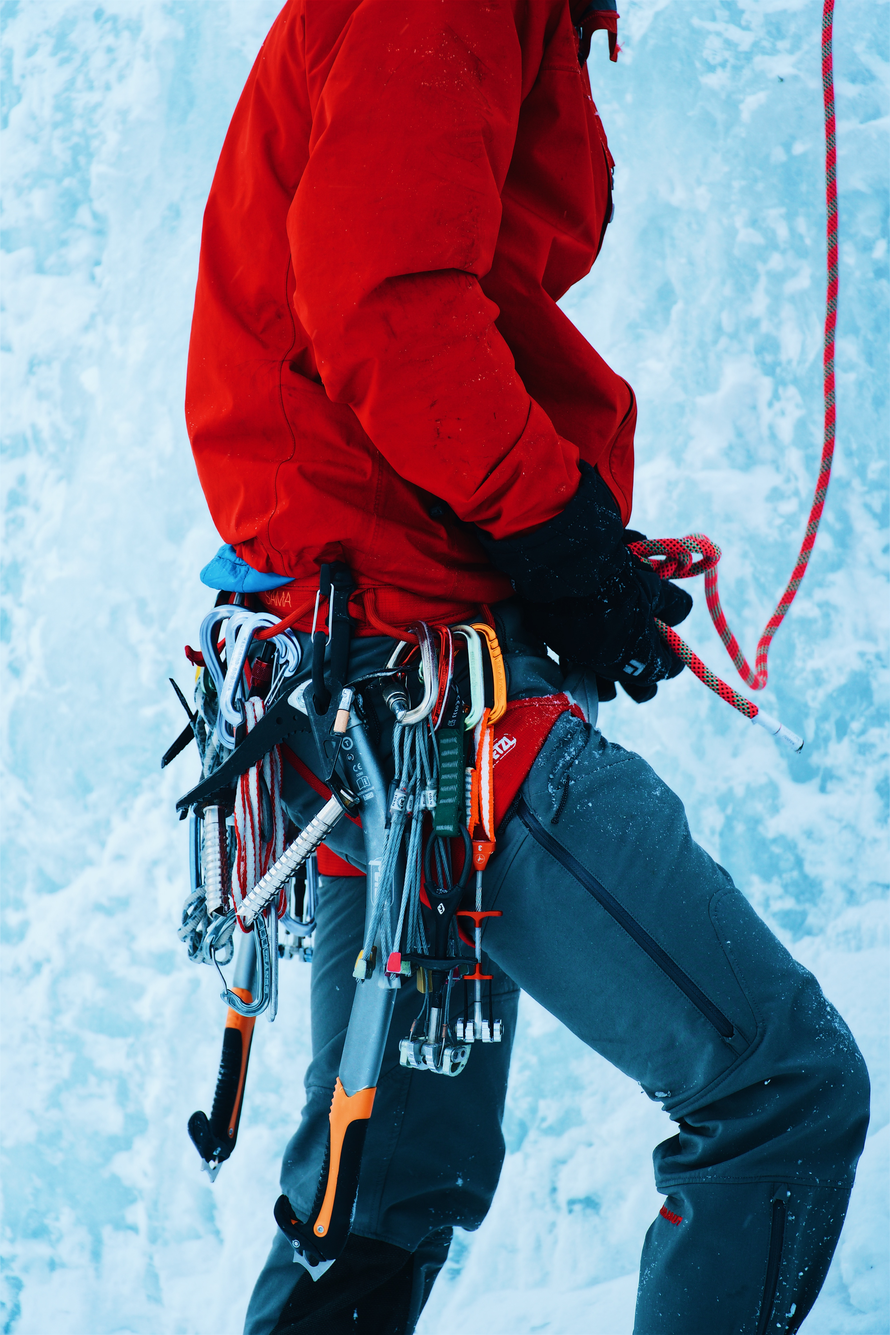
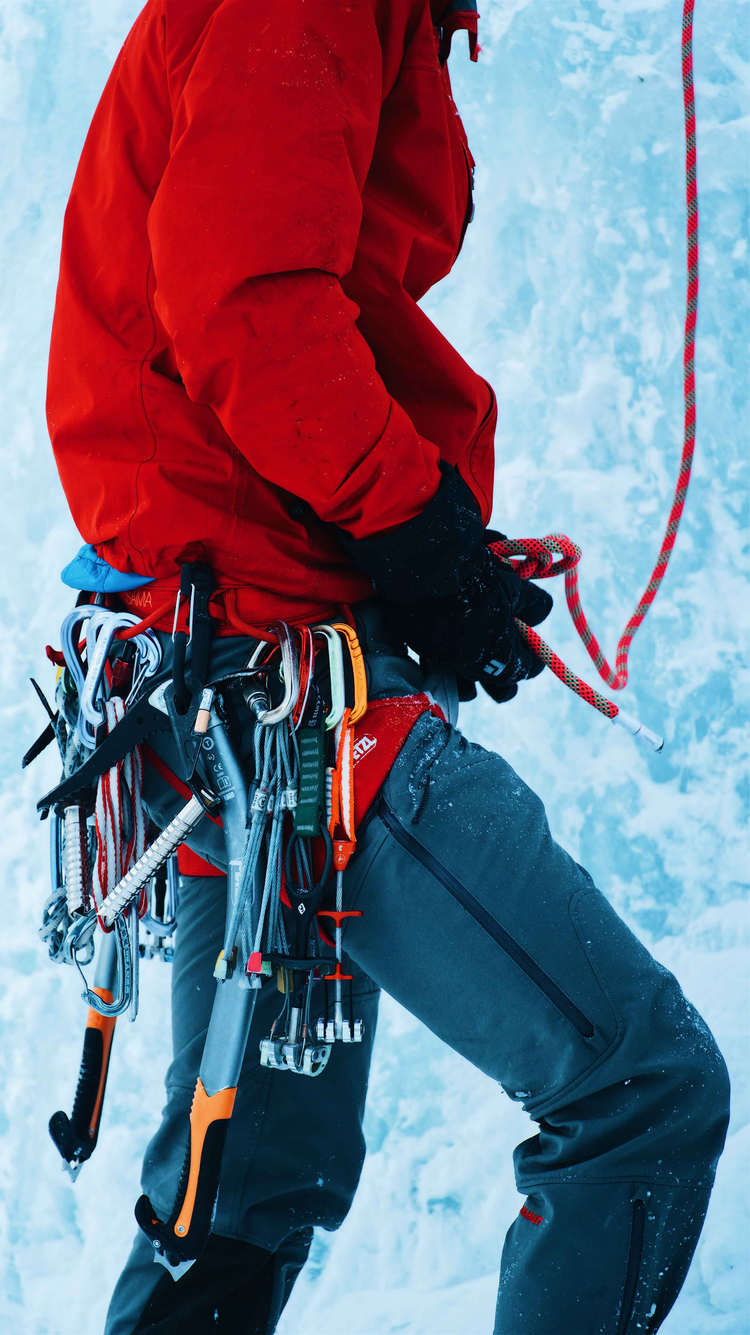
optimized images and updated text on featured exp card

diff --git a/src/components/experiences/mountaineeringExperience.js b/src/components/experiences/mountaineeringExperience.js
@@ -8,7 +8,7 @@ export default class experienceMountaineering extends Component {
           <div className="header-background">
             <img
               className="header-background__image"
-              src={require("../../../static/assets/images/featuredExperience/ice/heroBanner/iceHero.jpg")}
+              src={require("../../../static/assets/images/featuredExperience/ice/heroBanner/iceHero2.jpg")}
             />
             <h1 className="header-background__title">Bridal Veil Falls</h1>
           </div>
@@ -123,7 +123,7 @@ export default class experienceMountaineering extends Component {
                 </div>
                 <div className="local-interests__section local-interest__two">
                   <img
-                    src={require("../../../static/assets/images/featuredExperience/ice/localSpots/virtualReality.jpg")}
+                    src={require("../../../static/assets/images/featuredExperience/ice/localSpots/vr.jpg")}
                   />
                   <div className="local-interests__content">
                     <h4>Virtual Experience Arcade</h4>

diff --git a/src/components/featuredExperience.js b/src/components/featuredExperience.js
@@ -54,12 +54,12 @@ export default class Experiences extends Component {
             <div className="card">
               
               <div className="card-content">
-                <h2>Experience 4</h2>
+                <h2>Bridal Veil Falls</h2>
                 <img
                 src={require("../../static/assets/images/featuredExperience/card/cardTest.jpg")}/>
                 <div className='card-content__description'>
-                    <h3>Mountaineering</h3>    
-                    <h4>Location,XX</h4>
+                    <h3>Ice Climbing</h3>    
+                    <h4>Provo Canyon</h4>
                  </div>
                  <NavLink className='discoverButton' to={'/mountaineering'}>Discover</NavLink>
               </div>
